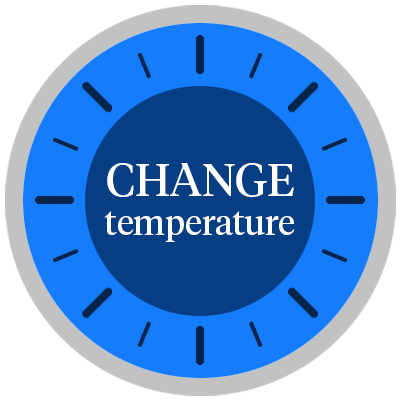
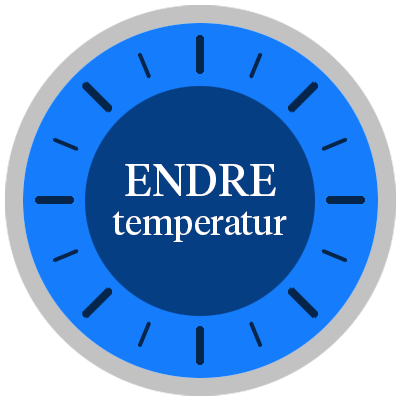
Gjorde url norsk, og noen bootstrap greier

Changed region(s): [[0.24, 0.39, 0.75, 0.63]]

diff --git a/public/script.js b/public/script.js
@@ -94,7 +94,7 @@ function applyTempIndexEventListeners(){
 		tempGroup.addEventListener("click",function(){
 			let roomName = this.getAttribute("data-url");
 			//console.log(roomName);
-			window.location.href = "/temp/change?rom="+roomName.toLowerCase();
+			window.location.href = "/temperatur/endre?rom="+roomName.toLowerCase();
 		});
 		let tempPolygon = document.createElementNS("http://www.w3.org/2000/svg","polygon");
 		let tempTextRoom = document.createElementNS("http://www.w3.org/2000/svg","text");
@@ -162,7 +162,7 @@ function setInitalTemperature(id){
 		let data = JSON.parse(this.response);
 		roomTemperatureDiv.innerText = data.temperatureValue;
 	});
-	oReq.open("POST", "/temp/getSpecificTemperature");
+	oReq.open("POST", "/temperatur/getSpecificTemperature");
 	oReq.setRequestHeader("Content-Type", "application/x-www-form-urlencoded");
 	oReq.send("temperatureId="+id);
 }
@@ -177,7 +177,7 @@ function updateRoomTemperature(degrees,id){
 		var oReq = new XMLHttpRequest();
 		oReq.addEventListener("load", function(){
 		});
-		oReq.open("POST", "/temp/updateSpecificTemperature");
+		oReq.open("POST", "/temperatur/updateSpecificTemperature");
 		oReq.setRequestHeader("Content-Type", "application/x-www-form-urlencoded");
 		oReq.send("temperatureId="+id+"&temperatureValue="+newTemperature);
 	}

diff --git a/app/controller/TemperaturController.php b/app/controller/TemperaturController.php
@@ -1,32 +1,32 @@
 <?php
-class TempController extends Controller{
+class TemperaturController extends Controller{
 
 	public function updateSpecificTemperature(){
-		$this->model('TempModel');
+		$this->model('TemperaturModel');
 		$temperatureId = $_POST['temperatureId'];
 		$temperatureValue = $_POST['temperatureValue'];
 		$this->model->updateSpecificTemperature($temperatureValue,$temperatureId);
 	}
 
 	public function getSpecificTemperature(){
-		$this->model('TempModel');
+		$this->model('TemperaturModel');
 		$temperatureId = $_POST['temperatureId'];
 		$data = $this->model->getSpecificTemperature($temperatureId);
 		echo json_encode($data);
 	}
 
-	public function change(){
+	public function endre(){
 		if(count($_GET) > 0){
-			$this->view('temp'.'/'.'change.php',$_GET['rom']);
+			$this->view('temperatur'.'/'.'endre.php',$_GET['rom']);
 			$this->view->render();
 		} else {
 			header("/");
 		}
 	}
 	public function index(){
-		$this->model('TempModel');
+		$this->model('TemperaturModel');
 		$temperatures = $this->model->getAllTemperatures();
-		$this->view('temp'.'/'.'index.php',$temperatures);
+		$this->view('temperatur'.'/'.'index.php',$temperatures);
 		$this->view->render();
 		
 	}

diff --git a/app/view/temperatur/endre.php b/app/view/temperatur/endre.php
@@ -1,15 +1,14 @@
 <?php include VIEW.'header.php';?>
 <?php include VIEW.'nav.php';?>
 <div class='container-fluid'>
-	<div class='media'>
-		<a href="/temp/"><img class='img-fluid' src="/img/logo2.png"></a>
-	</div>
 	<h1 class="text-center">
-		<div id='romDiv'>
+		<div class='d-inline-block' id='romDiv'>
 			<?php
 				echo ucfirst("$this->viewData");
-			?>	
+			?>
+			
 		</div>
+		<div class='d-inline-block'> temperatur:</div>
 		<div class='d-inline-block' id='degrees'></div>
 		<div class='d-inline-block' id='celcius'>°C</div>
 	</h1>

diff --git a/app/view/nav.php b/app/view/nav.php
@@ -1,9 +1,11 @@
 <?php 
 $action = $this->getAction();
 ?>
-<nav>
-	<ul class='nav nav-pills justify-content-center'>
-	<li class='nav-item'></li>
-	</ul>
+<nav class="navbar navbar-light bg-light">
+	<img style='width: 120px' src="/img/logo2.png">
+    <a href="/"><button class="btn-lg btn-primary" type="button">Hjem</button></a>
+    <a href="/temperatur"><button class="btn-lg btn-primary" type="button">Endre temperatur</button></a>
+    <a href="/"><button class="btn-lg btn-primary" type="button">Forbruk</button></a>
 </nav>
+
 

diff --git a/app/model/TemperaturModel.php b/app/model/TemperaturModel.php
@@ -1,5 +1,5 @@
 <?php
-class TempModel extends Model{
+class TemperaturModel extends Model{
 	
 	public function getAllTemperatures(){
 		$data = $this->query("SELECT temperatureValue FROM temperatureTable")->fetchAll();

diff --git a/app/view/home/index.php b/app/view/home/index.php
@@ -1,4 +1,3 @@
 <?php include VIEW.'header.php';?>
 <?php include VIEW.'nav.php';?>
-<img src="img/logo.png">
 <?php include VIEW.'footer.php';?>
